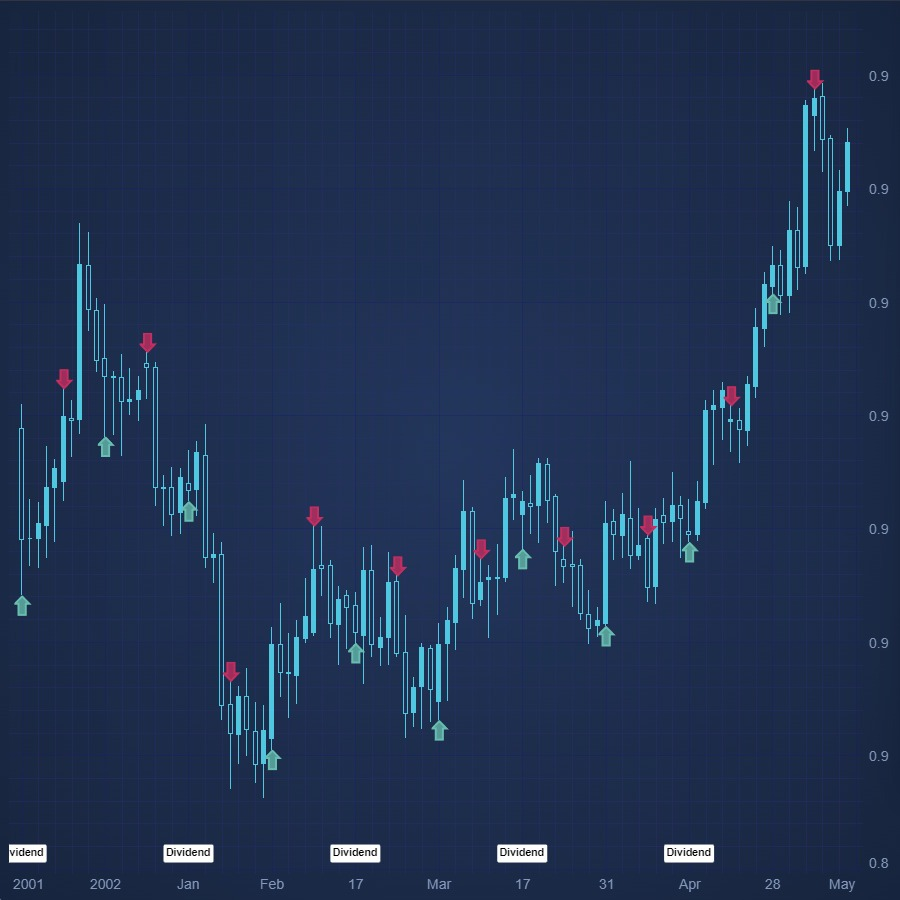
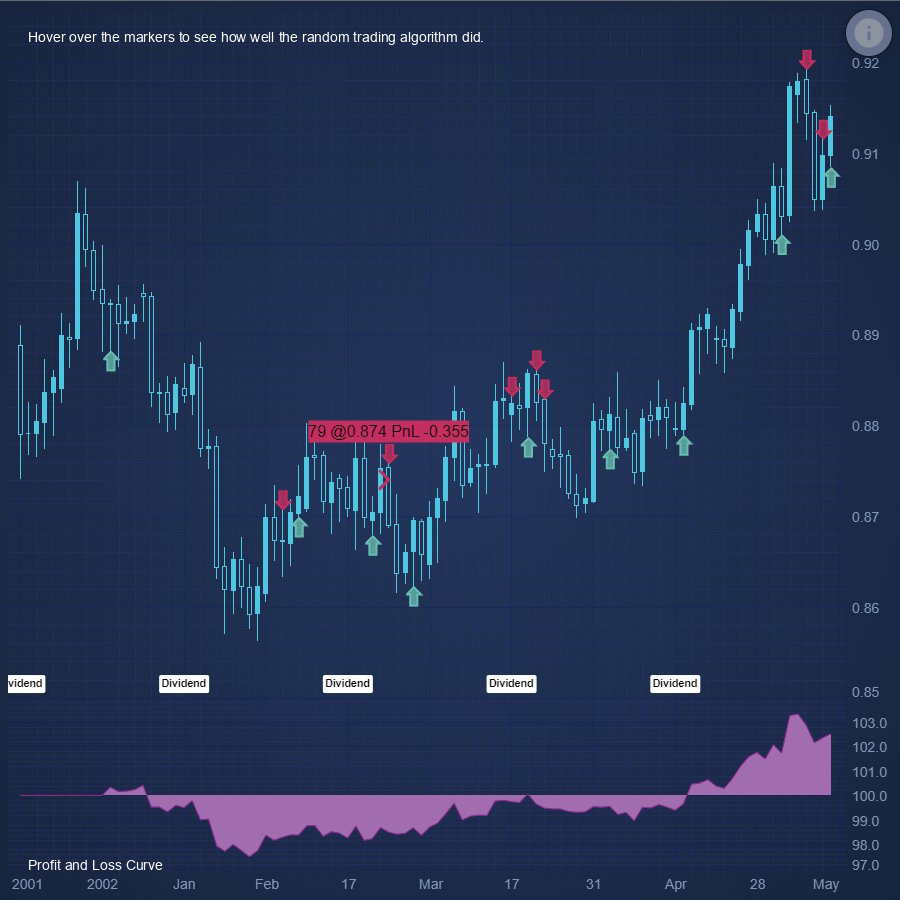
chore(Examples): Helper text for trade markers.  New image

diff --git a/Examples/src/components/Examples/Charts2D/ChartAnnotations/TradeMarkers/drawExample.ts b/Examples/src/components/Examples/Charts2D/ChartAnnotations/TradeMarkers/drawExample.ts
@@ -17,6 +17,7 @@ import {
     IAnnotation,
     LegendModifier,
     MouseWheelZoomModifier,
+    NativeTextAnnotation,
     NumberRange,
     NumericAxis,
     OhlcDataSeries,
@@ -90,7 +91,16 @@ export const drawExample = async (rootElement: string | HTMLDivElement) => {
         })
     );
 
-    const trades: any[] = [];
+    sciChartSurface.annotations.add(
+        new NativeTextAnnotation({
+            x1: 20,
+            y1: 20,
+            xCoordinateMode: ECoordinateMode.Pixel,
+            yCoordinateMode: ECoordinateMode.Pixel,
+            text: "Hover over the markers to see how well the random trading algorithm did.",
+        })
+    );
+
     let position = 0;
     let equity = 0;
     let balance = 100;
@@ -142,6 +152,19 @@ export const drawExample = async (rootElement: string | HTMLDivElement) => {
         stackedAxisLength: "20%",
     });
     sciChartSurface.yAxes.add(balanceAxis);
+
+    sciChartSurface.annotations.add(
+        new NativeTextAnnotation({
+            x1: 20,
+            y1: 0.99,
+            xCoordinateMode: ECoordinateMode.Pixel,
+            yCoordinateMode: ECoordinateMode.Relative,
+            yAxisId: balanceAxis.id,
+            verticalAnchorPoint: EVerticalAnchorPoint.Bottom,
+            text: "Profit and Loss Curve",
+        })
+    );
+
     sciChartSurface.layoutManager.rightOuterAxesLayoutStrategy =
         new RightAlignedOuterVerticallyStackedAxisLayoutStrategy();
 
@@ -160,10 +183,6 @@ export const drawExample = async (rootElement: string | HTMLDivElement) => {
     });
     sciChartSurface.renderableSeries.add(balanceSeries);
 
-    // Optional: Add some interactivity modifiers
-    sciChartSurface.chartModifiers.add(new ZoomPanModifier());
-    sciChartSurface.chartModifiers.add(new ZoomExtentsModifier());
-    sciChartSurface.chartModifiers.add(new MouseWheelZoomModifier());
     const targetsSelector: TTargetsSelector<IAnnotation> = (modifer) => {
         return modifer.getAllTargets().filter((t) => "quantity" in t);
     };

diff --git a/Examples/src/components/Examples/ExampleStrings.ts b/Examples/src/components/Examples/ExampleStrings.ts
@@ -298,9 +298,10 @@ export const ExampleStrings = {
 
     // Trademarkers
     urlTradeMarkers: `stock-chart-buy-sell-markers`,
-    titleTradeMarkers: (frameworkName: TFrameworkName) => `${frameworkName} Chart Trading Buy Sell Marker Annotations`,
+    titleTradeMarkers: (frameworkName: TFrameworkName) =>
+        `${frameworkName} Chart Hoverable Buy Sell Marker Annotations`,
     urlTitleTradeMarkers: (frameworkName: TFrameworkName) =>
-        `${frameworkName} Chart Trade Markers example demonstrates how to add buy/sell arrows and markers to a trading application`,
+        `${frameworkName} Chart Trade Markers example demonstrates how to add hoverable buy/sell arrows and markers to a trading application`,
 
     // Drag horizontal threshold
     titleDragHorizontalThreshold: (frameworkName: TFrameworkName) => `${frameworkName} Chart Drag Horizontal Threshold`,

diff --git a/Examples/src/components/Examples/Charts2D/ChartAnnotations/TradeMarkers/exampleInfo.tsx b/Examples/src/components/Examples/Charts2D/ChartAnnotations/TradeMarkers/exampleInfo.tsx
@@ -23,7 +23,7 @@ const documentationLinks: TDocumentationLink[] = [
 
 const Subtitle = (frameworkName: string) => (
     <p>
-        Demonstrates how to add Buy/Sell Markers (annotations) and News/Dividend bullets to a{" "}
+        Demonstrates how to add Hoverable Buy/Sell Markers (annotations) and News/Dividend bullets to a{" "}
         <strong>{frameworkName} Stock Chart</strong> using SciChart.js, High Performance{" "}
         <a href={ExampleStrings.urlJavascriptChartFeatures} target="_blank">
             JavaScript Charts
